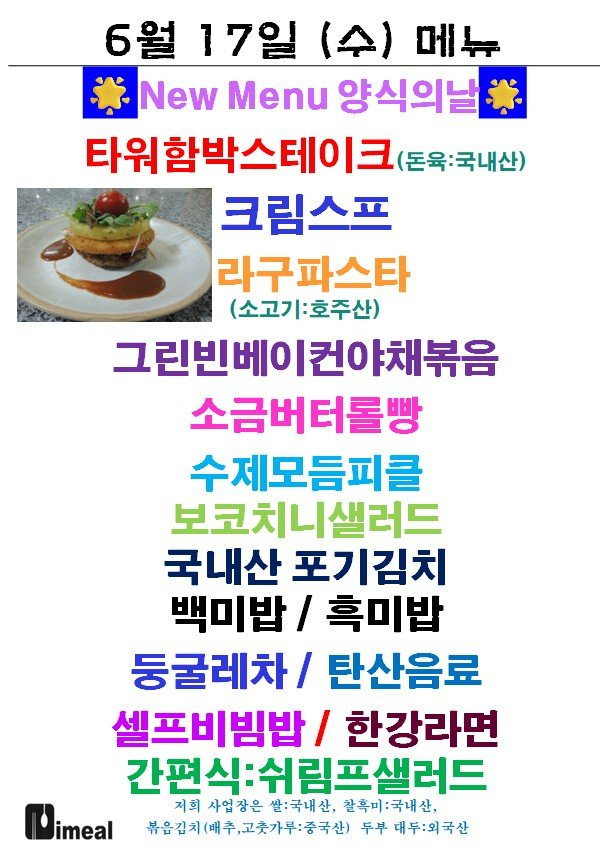
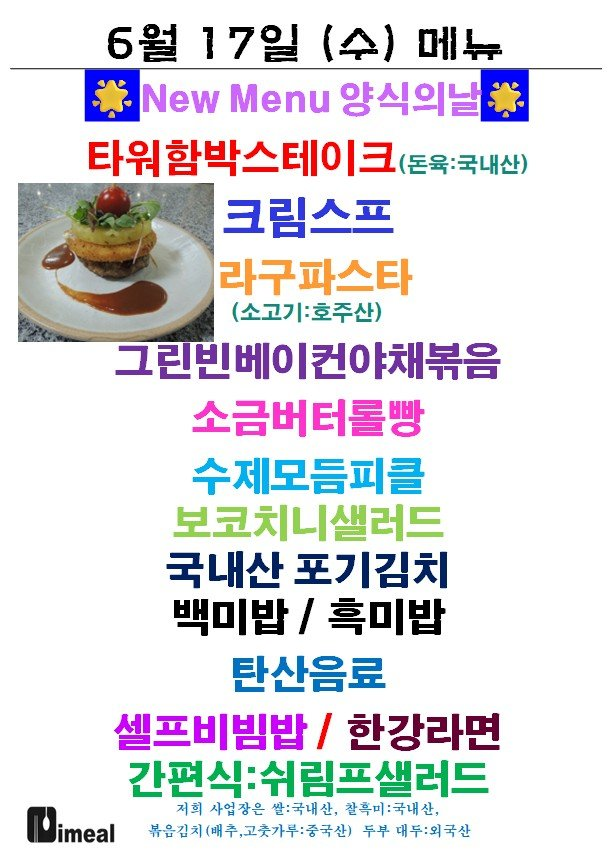
Update menu board assets

Changed region(s): [[0.0297, 0.0303, 0.9802, 0.7273], [0.1782, 0.7576, 0.8317, 0.9697], [0.0297, 0.9091, 0.2079, 1.0]]

diff --git a/menu-today/index.html b/menu-today/index.html
@@ -209,7 +209,7 @@
 
     <section class="meta-bar">
       <div class="meta-card"><div class="meta-label">기준 날짜</div><div class="meta-value">2026년 6월 17일 수요일</div></div>
-      <div class="meta-card"><div class="meta-label">최종 가져온 시간</div><div class="meta-value">2026-06-17 09:18:34</div></div>
+      <div class="meta-card"><div class="meta-label">최종 가져온 시간</div><div class="meta-value">2026-06-17 09:33:28</div></div>
       <div class="meta-card"><div class="meta-label">확인 완료</div><div class="meta-value">10개 식당</div></div>
       <div class="meta-card"><div class="meta-label">준비중</div><div class="meta-value">3개 채널</div></div>
     </section>
@@ -225,7 +225,7 @@
             <div class="sub">현대테라타워 가산DK</div>
           </div>
         </div>
-        <div class="menu-inline-image"><img src="./images/imeal.png" alt="아이밀 식단 이미지"></div><ul><li>타워함박스테이 그(돈육:국내신</li><li>그린빈베이컨야채볶음</li><li>수제모듬피클</li><li>보코치니샐러드</li><li>백미밥 / 흑미밥</li><li>테이크</li><li>타워</li><li>크림스프</li><li>라구파스타</li><li>소금버터롤빵</li><li>둥굴레차</li><li>타산을료</li></ul>
+        <div class="menu-inline-image"><img src="./images/imeal.png" alt="아이밀 식단 이미지"></div><ul><li>그린빈베이컨야채볶음</li><li>소금버터롤빵</li><li>수제모듬피클</li><li>보코치니샐러드</li><li>백미밥 / 흑미밥</li><li>한받^</li><li>타워</li><li>크림스프</li><li>라구파스타</li><li>타워함박스테 그</li><li>&quot;개 라구파스타</li></ul>
       </article>
 
       <article class="restaurant-card">
@@ -295,7 +295,7 @@
             <div class="sub">에이스테크노타워10차</div>
           </div>
         </div>
-        <div class="menu-inline-image"><img src="./images/thefoodsketch.png" alt="더푸드스케치 식단 이미지"></div><ul><li>육개장</li><li>훈제오리볶음</li><li>청파래오징어까스</li><li>느타리버섯전</li><li>부산비빔당면</li><li>Z 견과류명치조림</li><li>ui 비트무쌈</li><li>가든샐러드 &amp; 드레싱</li><li>배추겉절이 / 음료</li></ul>
+        <div class="menu-inline-image"><img src="./images/thefoodsketch.png" alt="더푸드스케치 식단 이미지"></div><ul><li>육개장</li><li>훈제오리볶음</li><li>청파래오징어까스</li><li>느타리버섯전</li><li>부산비빔당면</li><li>Z 견과류명치조림</li><li>ui 비트무쌈</li><li>가든샐러드 / 드레싱</li><li>배추겉절이 / 음료</li></ul>
       </article>
 
       <article class="restaurant-card">
